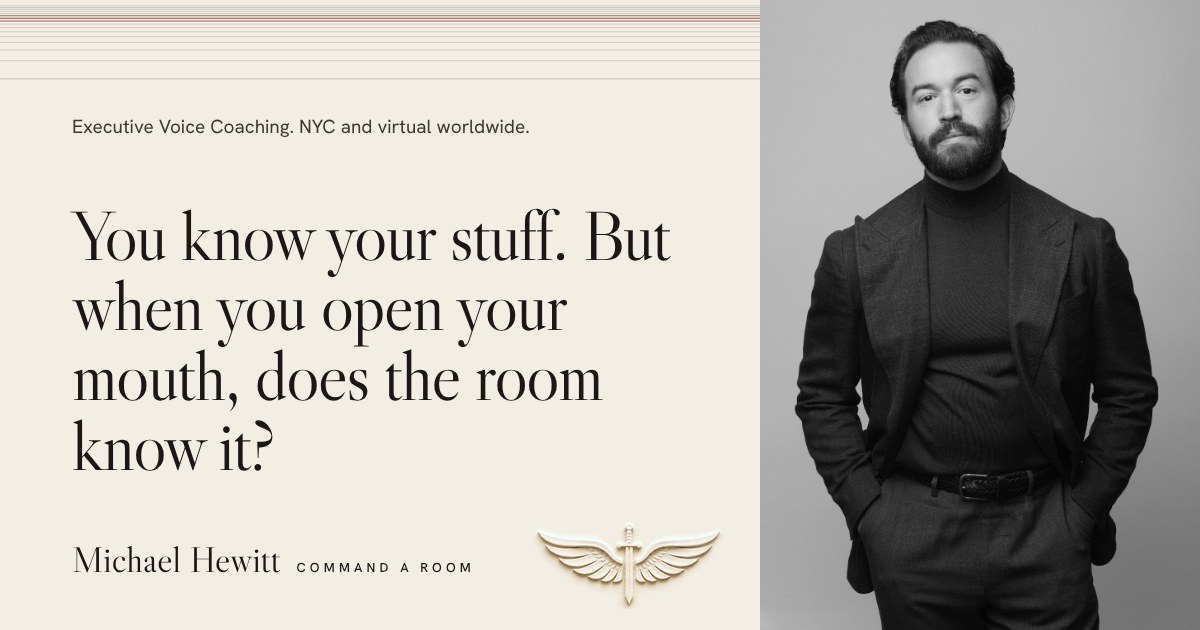
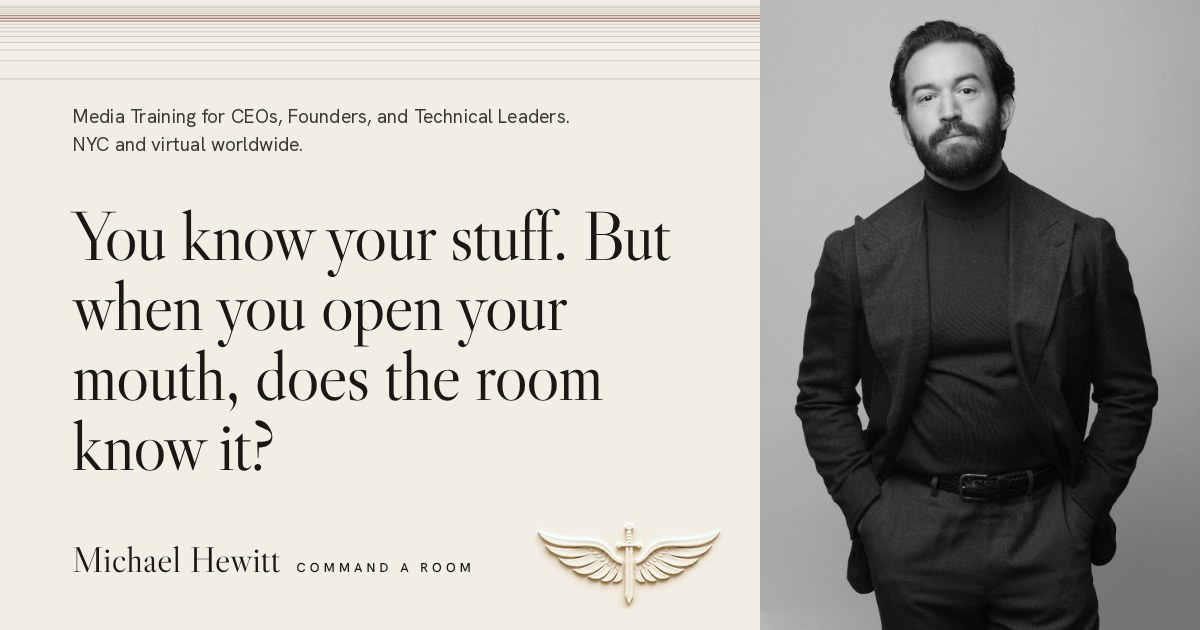
Position Command a Room as media training for CEOs, founders, and technical leaders (#25)
Replaces "Executive Voice Coaching" and the public speaking framing with
"Media Training for CEOs, Founders, and Technical Leaders" in the page title,
description, hero, apply and method-request headers, and the share image.
The audience line now names CEOs, founders, and technical leaders, and the
engagements list leads with press interviews in place of the speaking circuit.
Client quotes and testimonial labels are unchanged.

Claude-Session: https://claude.ai/code/session_01XbAx1jn3RoYzA94GbBHmtX

Changed region(s): [[0.0617, 0.181, 0.4625, 0.2413]]

diff --git a/public/apply/index.html b/public/apply/index.html
@@ -101,7 +101,7 @@ img{max-width:100%;height:auto}
 <section aria-labelledby="apply-hero-title">
 <div style="max-width: 1280px; margin: 0 auto; box-sizing: border-box; padding: clamp(36px, 5vw, 72px) clamp(20px, 5vw, 64px) clamp(48px, 6vw, 88px); display: flex; flex-direction: column; gap: clamp(28px, 4vw, 56px);">
 <div class="rv" style="display: flex; flex-direction: column; gap: clamp(18px, 2vw, 28px);">
-<p style="margin: 0; font-size: 16px; line-height: 1.5; color: #3D3832;">Michael Hewitt, Executive Voice Coaching.</p>
+<p style="margin: 0; font-size: 16px; line-height: 1.5; color: #3D3832;">Michael Hewitt, Media Training for CEOs, Founders, and Technical Leaders.</p>
 <h1 id="apply-hero-title" class="d hero-title">You already know what you’re capable of. Let’s make sure the room knows it too.</h1>
 </div>
 <div class="hero-grid">
@@ -161,14 +161,14 @@ img{max-width:100%;height:auto}
 
 <fieldset style="display: flex; flex-direction: column; gap: 32px;">
 <legend style="display: flex; flex-direction: column; gap: 10px; padding-bottom: 28px; margin-bottom: 4px; width: 100%; border-bottom: 2px solid #1A1714;"><span class="step">3 of 4</span><span class="d" style="font-size: clamp(26px, 2.6vw, 34px); line-height: 1.1;">What’s At Stake</span></legend>
-<div class="fld"><label class="fld-l" for="event">Is there a specific event, milestone, or moment coming up that you want to be exceptional for?</label><p class="help" id="event-help">A conference talk, a fundraise, a podcast tour, a new role, a team you need to lead differently — anything with a deadline.</p><textarea class="in" id="event" aria-describedby="event-help" name="event" rows="3"></textarea></div>
+<div class="fld"><label class="fld-l" for="event">Is there a specific event, milestone, or moment coming up that you want to be exceptional for?</label><p class="help" id="event-help">A press interview, a podcast tour, a conference panel, a fundraise, a new role, a team you need to lead differently — anything with a deadline.</p><textarea class="in" id="event" aria-describedby="event-help" name="event" rows="3"></textarea></div>
 <div class="fld"><label class="fld-l" for="impact">What would change in your career or business if your communication matched your expertise?</label><p class="help" id="impact-help">Think results, not just feelings. Revenue, opportunities, reputation, trajectory.</p><textarea class="in" id="impact" aria-describedby="impact-help" name="impact" rows="3" required></textarea></div>
 </fieldset>
 
 <fieldset style="display: flex; flex-direction: column; gap: 32px;">
 <legend style="display: flex; flex-direction: column; gap: 10px; padding-bottom: 28px; margin-bottom: 4px; width: 100%; border-bottom: 2px solid #1A1714;"><span class="step">4 of 4</span><span class="d" style="font-size: clamp(26px, 2.6vw, 34px); line-height: 1.1;">Fit &amp; Readiness</span></legend>
 <fieldset style="display: flex; flex-direction: column; gap: 6px;">
-<legend class="fld-l" style="margin-bottom: 8px;">Have you worked with a coach before? (Speaking, executive, performance — any kind)</legend>
+<legend class="fld-l" style="margin-bottom: 8px;">Have you worked with a coach before? (Media, speaking, executive, performance — any kind)</legend>
 <label class="opt"><input type="radio" name="coach_history" value="yes_helpful">Yes, and it was helpful</label>
 <label class="opt"><input type="radio" name="coach_history" value="yes_not_fit">Yes, but it wasn’t the right fit</label>
 <label class="opt"><input type="radio" name="coach_history" value="no_first_time">No, this would be my first time</label>
@@ -185,7 +185,7 @@ img{max-width:100%;height:auto}
 <label class="opt"><input type="radio" name="investment" value="company">Company / firm expense</label>
 <label class="opt"><input type="radio" name="investment" value="not_sure">Not sure yet — depends on the conversation</label>
 </fieldset>
-<div class="fld"><label class="fld-l" for="anything_else">Anything else you want me to know?</label><p class="help" id="anything_else-help">Optional. Context helps. Maybe it’s a link to a talk, a voice note, or just something on your mind.</p><textarea class="in" id="anything_else" aria-describedby="anything_else-help" name="anything_else" rows="3"></textarea></div>
+<div class="fld"><label class="fld-l" for="anything_else">Anything else you want me to know?</label><p class="help" id="anything_else-help">Optional. Context helps. Maybe it’s a link to an interview or a talk, a voice note, or just something on your mind.</p><textarea class="in" id="anything_else" aria-describedby="anything_else-help" name="anything_else" rows="3"></textarea></div>
 </fieldset>
 
 <div style="display: flex; flex-direction: column; gap: 20px; padding-top: 8px;">

diff --git a/public/index.html b/public/index.html
@@ -3,13 +3,13 @@
 <head>
 <meta charset="utf-8">
 <meta name="viewport" content="width=device-width, initial-scale=1">
-<title>Command a Room: Executive Voice Coaching with Michael Hewitt</title>
-<meta name="description" content="One-on-one coaching for founders, GPs, and senior operators whose next rooms are decided by how they sound. Leadership teams, too.">
+<title>Command a Room: Media Training for CEOs, Founders, and Technical Leaders with Michael Hewitt</title>
+<meta name="description" content="One-on-one media training for CEOs, founders, and technical leaders whose next interviews, panels, and rooms are decided by how they sound. Leadership teams, too.">
 <link rel="canonical" href="https://www.commandaroom.com/">
 <meta property="og:type" content="website">
 <meta property="og:site_name" content="Command a Room">
-<meta property="og:title" content="Command a Room: Executive Voice Coaching with Michael Hewitt">
-<meta property="og:description" content="One-on-one coaching for founders, GPs, and senior operators whose next rooms are decided by how they sound. Leadership teams, too.">
+<meta property="og:title" content="Command a Room: Media Training for CEOs, Founders, and Technical Leaders with Michael Hewitt">
+<meta property="og:description" content="One-on-one media training for CEOs, founders, and technical leaders whose next interviews, panels, and rooms are decided by how they sound. Leadership teams, too.">
 <meta property="og:url" content="https://www.commandaroom.com/">
 <meta property="og:image" content="https://www.commandaroom.com/assets/og.jpg">
 <meta property="og:image:width" content="1200">
@@ -383,7 +383,7 @@ body.modal-open{overflow:hidden}
 <div style="max-width: 1280px; margin: 0 auto; box-sizing: border-box; padding: clamp(36px, 5vw, 72px) clamp(20px, 5vw, 64px) clamp(48px, 6vw, 88px); display: flex; flex-direction: column; gap: clamp(28px, 4vw, 56px);">
 <div class="hero-top">
 <div class="rv" style="display: flex; flex-direction: column; gap: clamp(18px, 2vw, 28px);">
-<p style="margin: 0; font-size: 16px; line-height: 1.5; color: #3D3832;">Executive Voice Coaching. NYC and virtual worldwide.</p>
+<p style="margin: 0; font-size: 16px; line-height: 1.5; color: #3D3832;">Media Training for CEOs, Founders, and Technical Leaders. NYC and virtual worldwide.</p>
 <h1 id="hero-title" class="d hero-title">You know your stuff. But when you open your mouth, does the room know it?</h1>
 </div>
 <img class="emblem rv rv-2" src="assets/emblem-winged-sword.webp" width="1532" height="688" alt="" decoding="async">
@@ -395,7 +395,7 @@ body.modal-open{overflow:hidden}
 <div class="rv rv-2 hero-copy">
 <div>
 <p class="lead">There’s a gap between what you know and how you sound. That gap is costing you.</p>
-<p class="body">One-on-one coaching for founders, GPs, and senior operators whose next rooms are decided by how they sound. Leadership teams, too.</p>
+<p class="body">One-on-one media training for CEOs, founders, and technical leaders whose next interviews, panels, and rooms are decided by how they sound. Leadership teams, too.</p>
 <div style="padding-top: 4px;"><a class="btn" href="apply/">Schedule a consultation</a></div>
 <div class="firms hero-firms" role="group" aria-label="Clients">
 <p class="firms-l">Clients from</p>
@@ -539,7 +539,7 @@ body.modal-open{overflow:hidden}
 <p class="rh">Engagements</p>
 <h2 id="apply-title" class="d h2" style="color: #F3EEE4;">Get your voice and presence to catch up to your resume.</h2>
 </div>
-<p style="margin: 0; font-size: 19px; line-height: 1.55;">Work one-on-one with Michael through the rooms that matter: the raise, the promotion, board meetings, investor calls, podcast and panel appearances, the speaking circuit, and internal conversations.</p>
+<p style="margin: 0; font-size: 19px; line-height: 1.55;">Work one-on-one with Michael through the rooms that matter: press interviews, podcast and panel appearances, the raise, the promotion, board meetings, investor calls, and internal conversations.</p>
 <p style="margin: 0; font-size: 15px; line-height: 1.6; color: #C9C1B4;">Engagements are offered selectively. For a team or a firm, mention it when you schedule.</p>
 <a class="btn-l" href="apply/" style="align-self: flex-start;">Schedule a consultation</a>
 </div>

diff --git a/public/method/index.html b/public/method/index.html
@@ -448,7 +448,7 @@ body.modal-open{overflow:hidden}
 <p class="rh">Engagements</p>
 <h2 id="apply-title" class="d h2" style="color: #F3EEE4;">Get your voice and presence to catch up to your resume.</h2>
 </div>
-<p style="margin: 0; font-size: 19px; line-height: 1.55;">Work one-on-one with Michael through the rooms that matter: the raise, the promotion, board meetings, investor calls, podcast and panel appearances, the speaking circuit, and internal conversations.</p>
+<p style="margin: 0; font-size: 19px; line-height: 1.55;">Work one-on-one with Michael through the rooms that matter: press interviews, podcast and panel appearances, the raise, the promotion, board meetings, investor calls, and internal conversations.</p>
 <p style="margin: 0; font-size: 15px; line-height: 1.6; color: #C9C1B4;">Engagements are offered selectively. For a team or a firm, mention it when you schedule.</p>
 <a class="btn-l" href="../apply/" style="align-self: flex-start;">Schedule a consultation</a>
 </div>

diff --git a/public/wall-of-love/index.html b/public/wall-of-love/index.html
@@ -772,7 +772,7 @@ body.modal-open{overflow:hidden}
 <p class="rh">Engagements</p>
 <h2 id="apply-title" class="d h2" style="color: #F3EEE4;">Get your voice and presence to catch up to your resume.</h2>
 </div>
-<p style="margin: 0; font-size: 19px; line-height: 1.55;">Work one-on-one with Michael through the rooms that matter: the raise, the promotion, board meetings, investor calls, podcast and panel appearances, the speaking circuit, and internal conversations.</p>
+<p style="margin: 0; font-size: 19px; line-height: 1.55;">Work one-on-one with Michael through the rooms that matter: press interviews, podcast and panel appearances, the raise, the promotion, board meetings, investor calls, and internal conversations.</p>
 <p style="margin: 0; font-size: 15px; line-height: 1.6; color: #C9C1B4;">Engagements are offered selectively. For a team or a firm, mention it when you schedule.</p>
 <a class="btn-l" href="../apply/" style="align-self: flex-start;">Schedule a consultation</a>
 </div>

diff --git a/public/method/request/index.html b/public/method/request/index.html
@@ -102,7 +102,7 @@ img{max-width:100%;height:auto}
 <main>
 <section aria-labelledby="request-hero-title">
 <div style="max-width: 1280px; margin: 0 auto; box-sizing: border-box; padding: clamp(36px, 5vw, 72px) clamp(20px, 5vw, 64px) clamp(48px, 6vw, 88px); display: flex; flex-direction: column; gap: clamp(22px, 3vw, 32px);">
-<p style="margin: 0; font-size: 16px; line-height: 1.5; color: #3D3832;">Michael Hewitt, Executive Voice Coaching.</p>
+<p style="margin: 0; font-size: 16px; line-height: 1.5; color: #3D3832;">Michael Hewitt, Media Training for CEOs, Founders, and Technical Leaders.</p>
 <h1 id="request-hero-title" class="d hero-title rv">The full method, and the research behind it.</h1>
 <p class="lead rv rv-2">Tell me a little about you and what’s going on, and I’ll send you the full method and the research behind it, personally.</p>
 <p class="t rv rv-3" style="font-style: italic; font-size: 19px; line-height: 1.45; color: #1A1714;">This takes about two minutes.</p>
